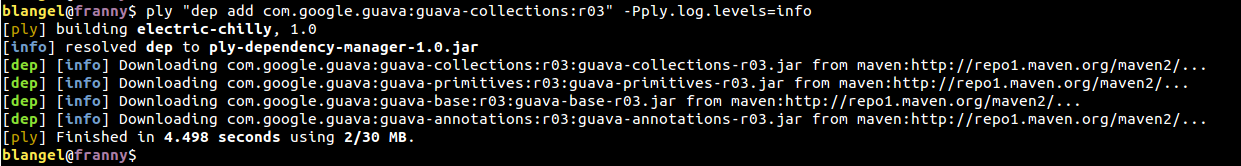
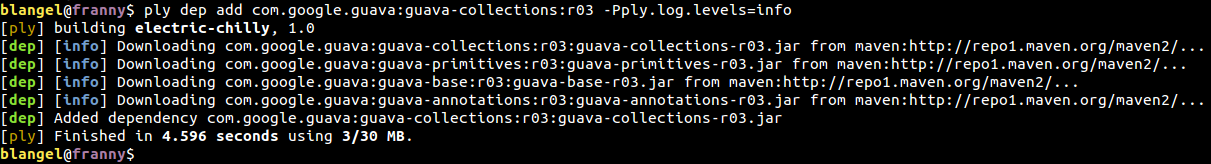
* Updated documentation for the DependenciesTutorial given the new CLI.

Changed region(s): [[0.0, 0.0, 1.0, 1.0]]

diff --git a/docs/DependenciesTutorial.md b/docs/DependenciesTutorial.md
@@ -5,15 +5,15 @@ First, make sure you understand dependencies and their role in Ply by reading [D
 
 Utilizing the `electric-chilly` project made in [Project Setup](ProjectSetup.md), let's add a dependency to the [Google Guava](http://code.google.com/p/guava-libraries/) project.
 
-      $ ply "dep add com.google.guava:guava-collections:r03" -Pply.log.levels=info
+      $ ply dep add com.google.guava:guava-collections:r03 -Pply.log.levels=info
 
 The `-Pply.log.levels=info` property override is unnecessary but added to give more detailed feedback about what transitive dependencies are being downloaded, see [Changing Log Levels](Logging.md) for details about available log levels.  Your output should be similar to the following:
 
 ![dep guava](https://github.com/blangel/ply/raw/master/docs/imgs/ply-dep-guava.png "dep guava")
 
-We can see that four dependencies were downloaded even though we only added one.  Let's issue the `ply "dep tree"` command to visualize the dependencies of `electric-chilly`:
+We can see that four dependencies were downloaded even though we only added one.  Let's issue the `ply dep tree` command to visualize the dependencies of `electric-chilly`:
 
-      $ ply "dep tree"
+      $ ply dep tree
 
 ![dep tree](https://github.com/blangel/ply/raw/master/docs/imgs/ply-dep-tree.png "dep tree")
 
@@ -24,6 +24,6 @@ Test Scoped Dependency
 
 Let's now add `junit` to our `electric-chilly` project as a test dependency.
 
-      $ ply "test:dep add junit:junit:4.10"
+      $ ply test:dep add junit:junit:4.10
 
 Note, adding a test dependency is the same except the `dep` script is run within scope _test_ (i.e., `test:dep`).
